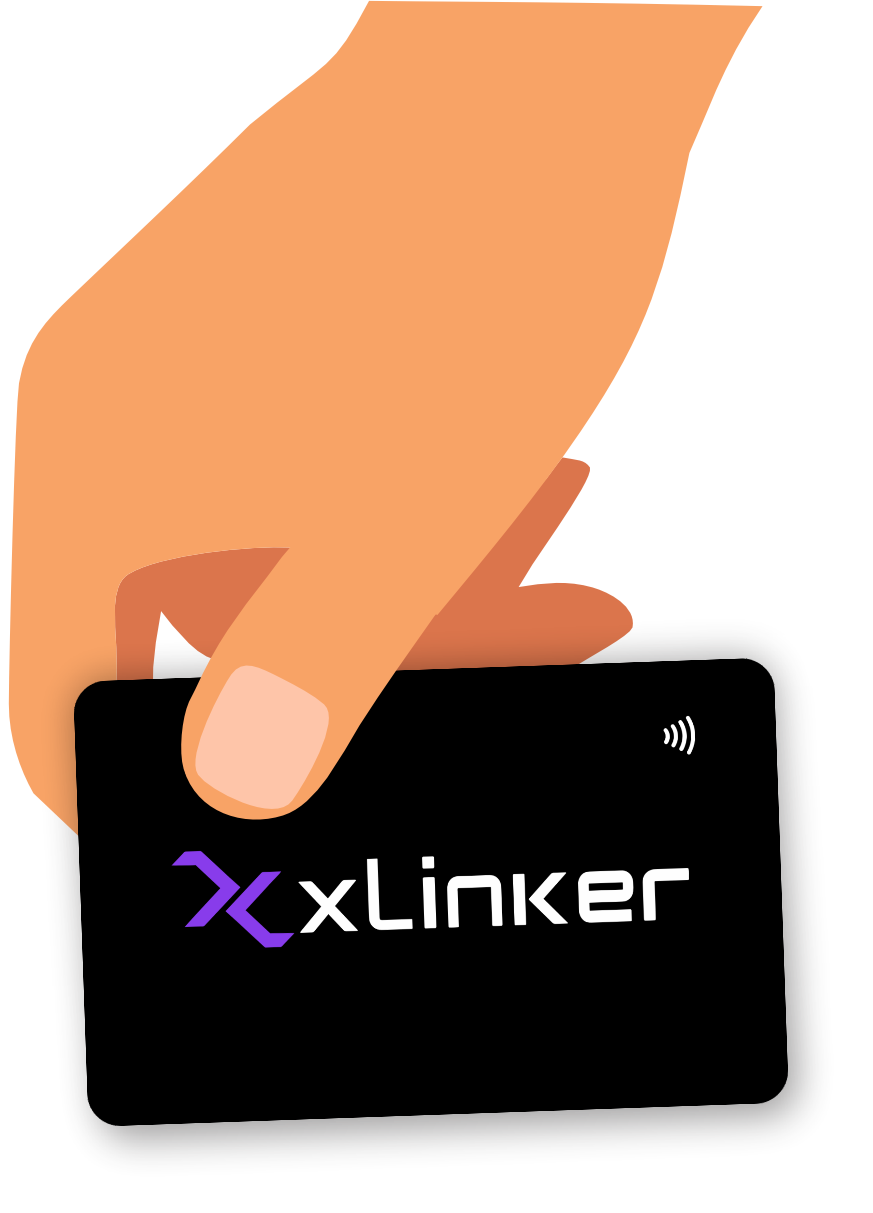
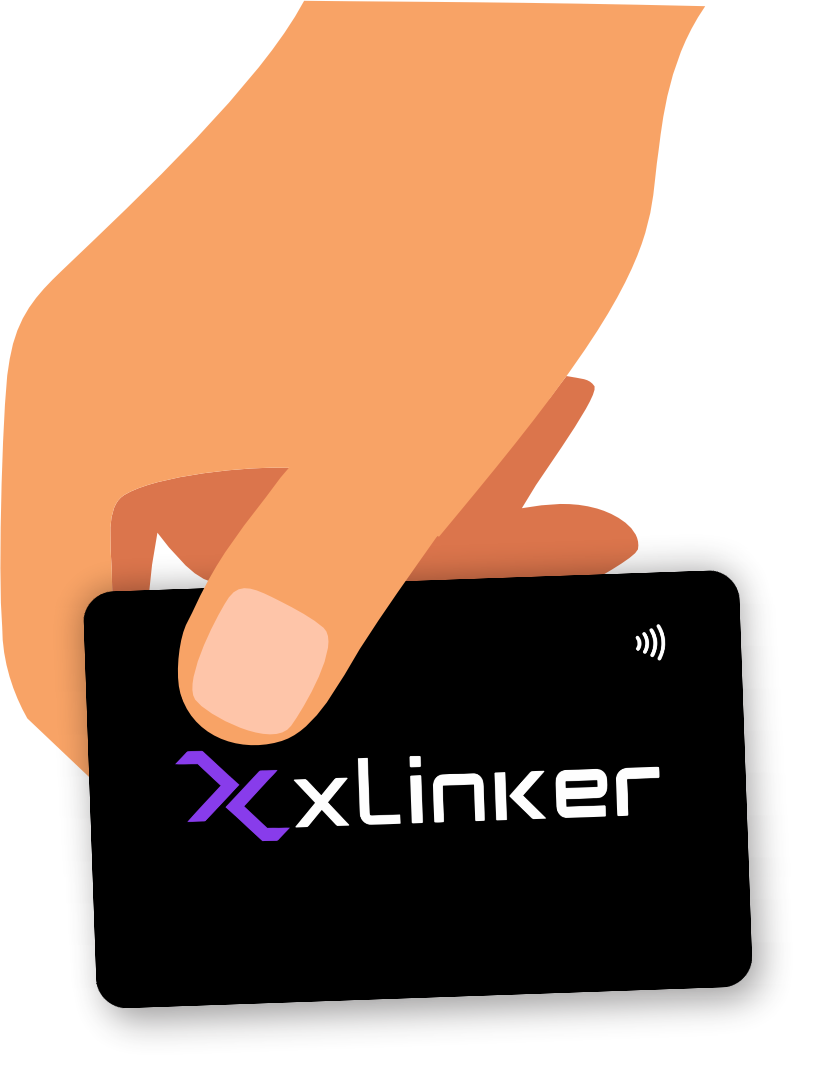
animation update

diff --git a/index.html b/index.html
@@ -15,7 +15,7 @@
 
 </head>
 <body class="font-lexend overflow-x-hidden">
-    <header class="px-5 grid place-items-center mx-auto right-0 left-0 fixed z-50">
+    <header class="px-5 grid place-items-center mx-auto right-0 left-0 fixed z-[60]">
         <div id="container" class="bg-white shadow-md mt-4 mx-auto flex justify-center max-w-[1200px] w-full py-3 border-[1px] border-slate-300 rounded-full duration-500">
             <nav class="flex items-center justify-between px-7 max-w-[1200px] w-full">
                 <div class="flex gap-4">
@@ -31,7 +31,7 @@
                     </div>
         
                     <div class="grid place-items-center xl:hidden">
-                        <button id="menu-btn"><i class="text-3xl text-gray-700 z-50 ri-menu-line"></i></button>
+                        <button id="menu-btn"><i class="text-3xl text-gray-700 z-[60] ri-menu-line"></i></button>
                     </div>
                 </div>
     
@@ -62,7 +62,7 @@
         </div>
     </header>
 
-    <div id="menu" class="w-full max-h-0 pt-[90px] overflow-hidden rounded-b-[3rem] fixed z-40 [transition: max-height] duration-500 ease-in-out">
+    <div id="menu" class="w-full max-h-0 pt-[90px] overflow-hidden rounded-b-[3rem] fixed z-50 [transition: max-height] duration-500 ease-in-out">
         <ul class="bg-white py-5 px-10 grid gap-5">
             <li class="border-b-[1px] border-slate-300 pb-5"><a href="#faq" class="text-gray-700">Texto</a></li>
             <li class="border-b-[1px] border-slate-300 pb-5"><a href="#faq" class="text-gray-700">Texto</a></li>
@@ -79,13 +79,19 @@
         <div class="grid place-items-center">
             <div class="grid justify-center xl:w-[1200px] px-5 md:justify-between md:flex md:flex-row-reverse">
                 <div class="grid place-items-center px-5 mx-auto relative">
-                    <img class="w-[180px] z-40" src="/src/img/hand-card.png" style="animation: rotate 3s infinite; transform-origin: left top;" alt="">
+                    <div class="xl:scale-125 z-40">
+                        <img class="w-[180px] z-40" src="/src/img/hand-card.png" style="animation: rotate 3s infinite; transform-origin: left top;" alt="">
+                    </div>
+                  
 
-                    <div class="relative overflow-y-hidden" style="animation: upper 3s infinite;">
-                        <img class="w-[180px] z-30 relative" src="/src/img/hand-phone.png" alt="">
-                        <img class="w-[104px] z-20 absolute top-[3px] right-[22.5px]" style="animation: show 3s infinite;" src="/src/img/profile_phone.png" alt="">
-                        <img class="w-[104px] z-10 absolute top-[3px] right-[22.5px]" src="/src/img/screen-phone.png" alt="">
-                    </div> 
+                    <div class="xl:scale-125 xl:mt-14">
+                        <div class="relative overflow-y-hidden" style="animation: upper 3s infinite;">
+                            <img class="w-[180px] z-30 relative" src="/src/img/hand-phone.png" alt="">
+                            <img class="w-[100px] z-20 absolute top-[3px] right-[26px]" style="animation: show 3s infinite;" src="/src/img/profile_phone.png" alt="">
+                            <img class="w-[100px] z-10 absolute top-[3px] right-[26px]" src="/src/img/screen-phone.png" alt="">
+                        </div> 
+                    </div>
+
                 </div> 
     
                 <div class="">
@@ -103,7 +109,7 @@
                             <p class="text-gray-700 text-sm text-center xl:max-w-[320px]"><span class="font-bold">+5.000</span> empresas confiam na xLinker. Junte-se a eles.</p> 
                         </div>
                     </div> 
-                </div>
+                </div> 
             </div>   
         </div>
     </div>

diff --git a/src/css/output.css b/src/css/output.css
@@ -636,8 +636,8 @@ video {
   right: 1.5rem;
 }
 
-.right-\[22\.5px\]{
-  right: 22.5px;
+.right-\[26px\]{
+  right: 26px;
 }
 
 .top-0{
@@ -678,6 +678,10 @@ video {
 
 .z-50{
   z-index: 50;
+}
+
+.z-\[60\]{
+  z-index: 60;
 }
 
 .mx-5{
@@ -974,8 +978,8 @@ video {
   width: 2rem;
 }
 
-.w-\[104px\]{
-  width: 104px;
+.w-\[100px\]{
+  width: 100px;
 }
 
 .w-\[10px\]{
@@ -2313,6 +2317,18 @@ video {
     margin-top: 2rem;
   }
 
+  .xl\:mt-10{
+    margin-top: 2.5rem;
+  }
+
+  .xl\:mt-1{
+    margin-top: 0.25rem;
+  }
+
+  .xl\:mt-14{
+    margin-top: 3.5rem;
+  }
+
   .xl\:flex{
     display: flex;
   }
@@ -2411,6 +2427,12 @@ video {
 
   .xl\:max-w-\[650px\]{
     max-width: 650px;
+  }
+
+  .xl\:scale-110{
+    --tw-scale-x: 1.1;
+    --tw-scale-y: 1.1;
+    transform: translate(var(--tw-translate-x), var(--tw-translate-y)) rotate(var(--tw-rotate)) skewX(var(--tw-skew-x)) skewY(var(--tw-skew-y)) scaleX(var(--tw-scale-x)) scaleY(var(--tw-scale-y));
   }
 
   .xl\:scale-125{
